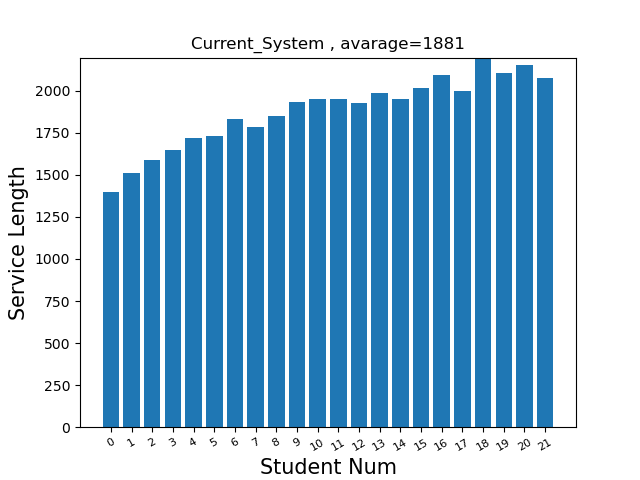
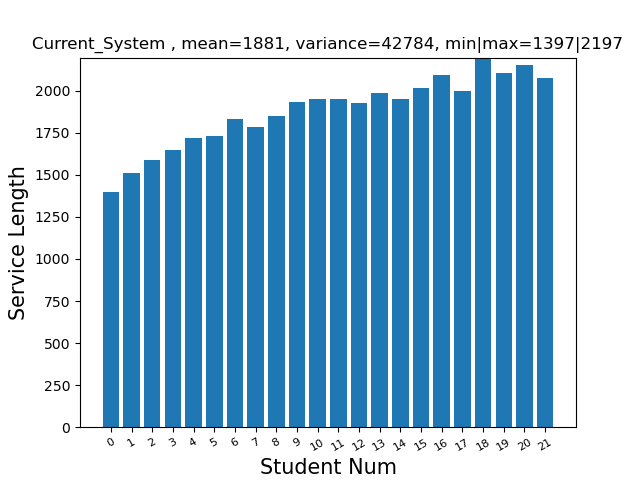
finished

Changed region(s): [[0.2812, 0.0625, 0.9688, 0.125], [0.0625, 0.0625, 0.25, 0.125]]

diff --git a/goodness_of_fit.py b/goodness_of_fit.py
@@ -94,10 +94,11 @@ def split_to_bins(data, min_quantity, func):
     return df
 
 
-def check_hypothesis(data, func):
+def check_hypothesis(data, func, filename):
     bins_df = split_to_bins(data, 5, func)
     bins_df['Oi-Ei'] = bins_df['Oi'] - bins_df['Ei']
     bins_df['(Oi-Ei)^2/Ei'] = bins_df['Oi-Ei'] ** 2 / bins_df['Ei']
+    bins_df.to_csv(filename+'.csv')
     statistic = bins_df['(Oi-Ei)^2/Ei'].sum()
     chi2_critical = chi2.ppf(0.99, len(bins_df) - 2)
     print('Hypothesis', 'accepted' if statistic < chi2_critical else 'denied', 'because statistic(',
@@ -109,8 +110,8 @@ for filename in ['east_data', 'west_data']:
     print("Filename:", filename)
     df = pd.read_csv(filename + '.csv')
     deltas = get_deltas(df)
-    check_hypothesis(deltas, exp_func)
+    check_hypothesis(deltas, exp_func, 'deltas_time_' + filename)
     print('m =', round(m, 4), '| lambda =', round(1 / m, 4))
     checks_time = get_check_time(df)
-    check_hypothesis(checks_time, uniform_func)
+    check_hypothesis(checks_time, uniform_func, 'checks_time_' + filename)
     print('b =', b, '| a =', a)

diff --git a/results_anylizer.py b/results_anylizer.py
@@ -44,7 +44,7 @@ for filename in ['Current_System', 'Improved_System']:
         plt.xlabel('Student Num', fontsize=15)
         plt.ylabel('Service Length', fontsize=15)
         plt.xticks(index, range(minLen), fontsize=8, rotation=30)
-        plt.title(filename + ' , avarage=' + str(int(sum(average)/len(average))))
+        plt.title(filename + ' , mean=' + str(int(sum(average)/len(average))) + ', variance=' + str(int(np.var(average))) + ', min|max=' + str(round(min(average))) + '|' + str(round(max(average))), fontsize = 12)
         axes = plt.gca()
         if topY > 0 :
             axes.set_ylim([0, topY])
@@ -55,7 +55,7 @@ for filename in ['Current_System', 'Improved_System']:
         plt.show()
 
 from scipy import stats
-np.random.seed(12345678)
+np.random.seed(42)
 
 print(stats.ttest_ind(results[0], results[1]))
 print(stats.ttest_ind(results[0], results[1], equal_var = False))
